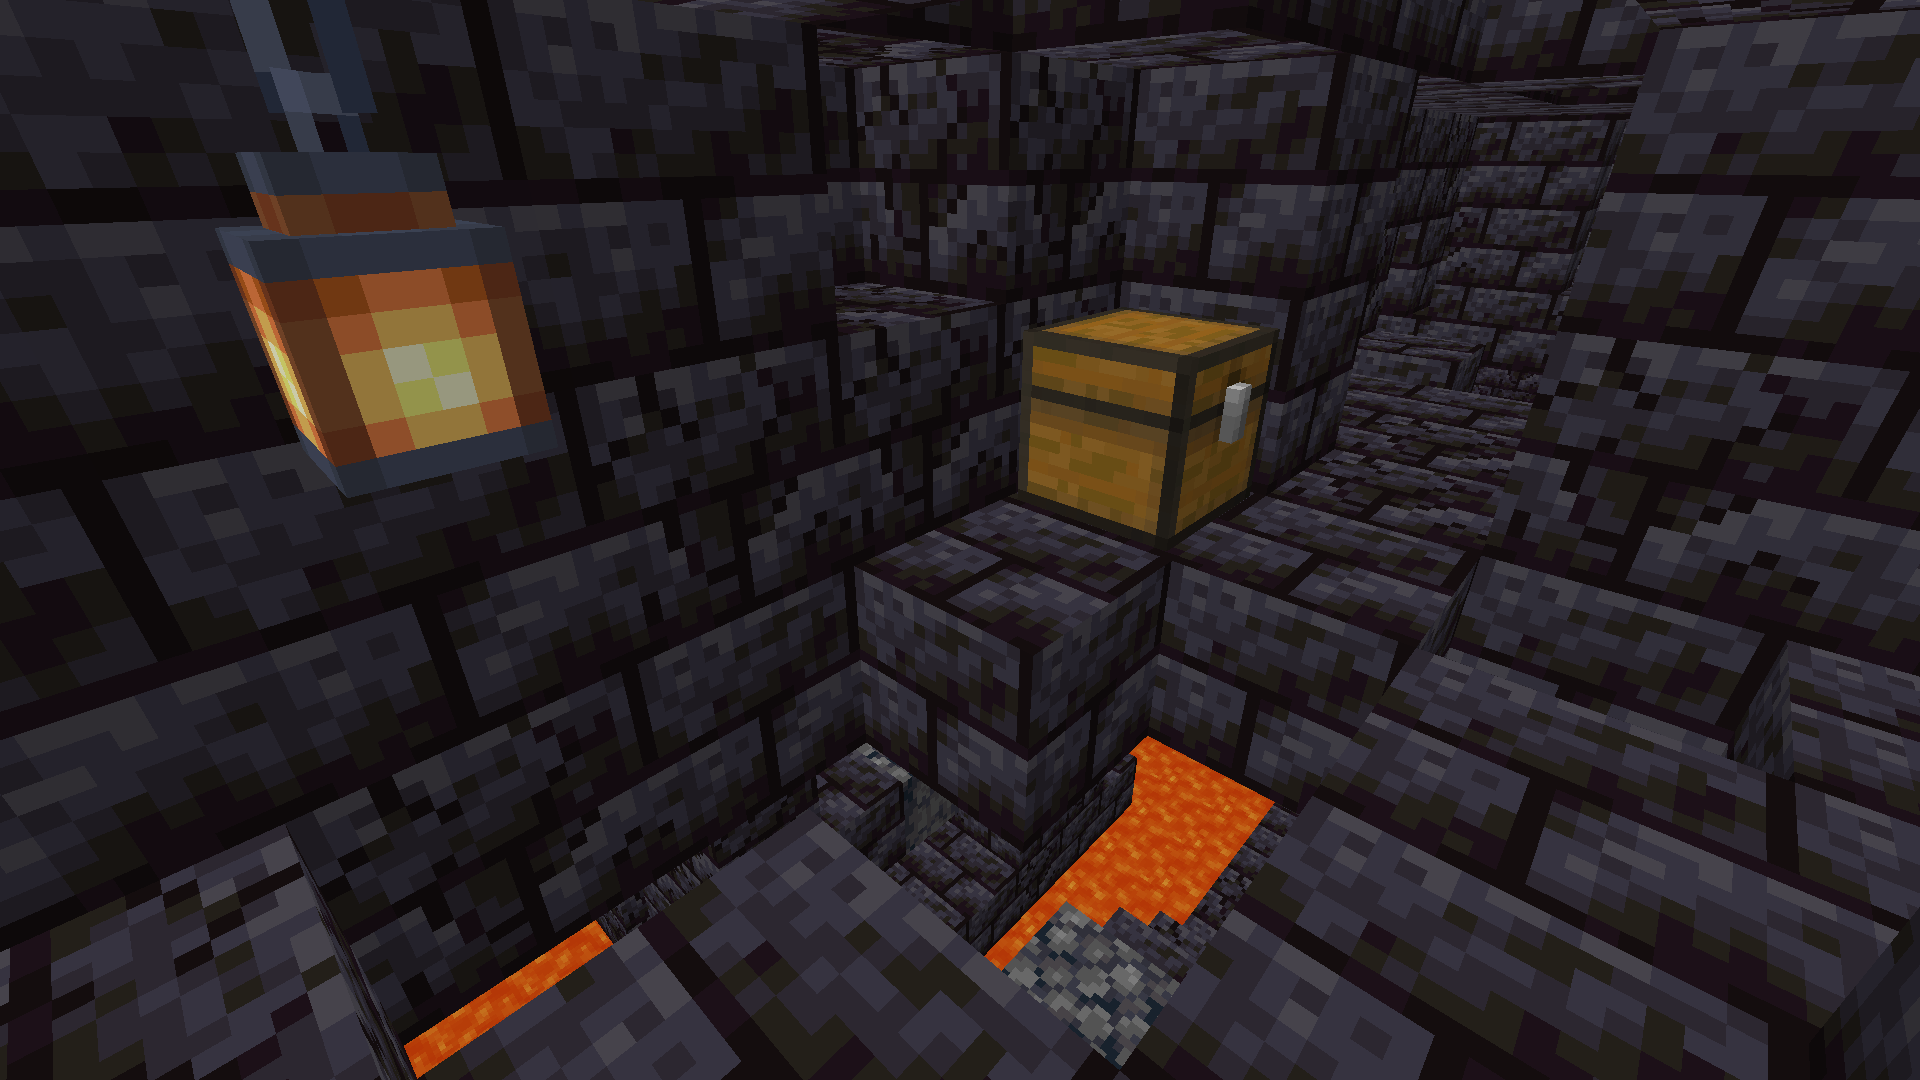
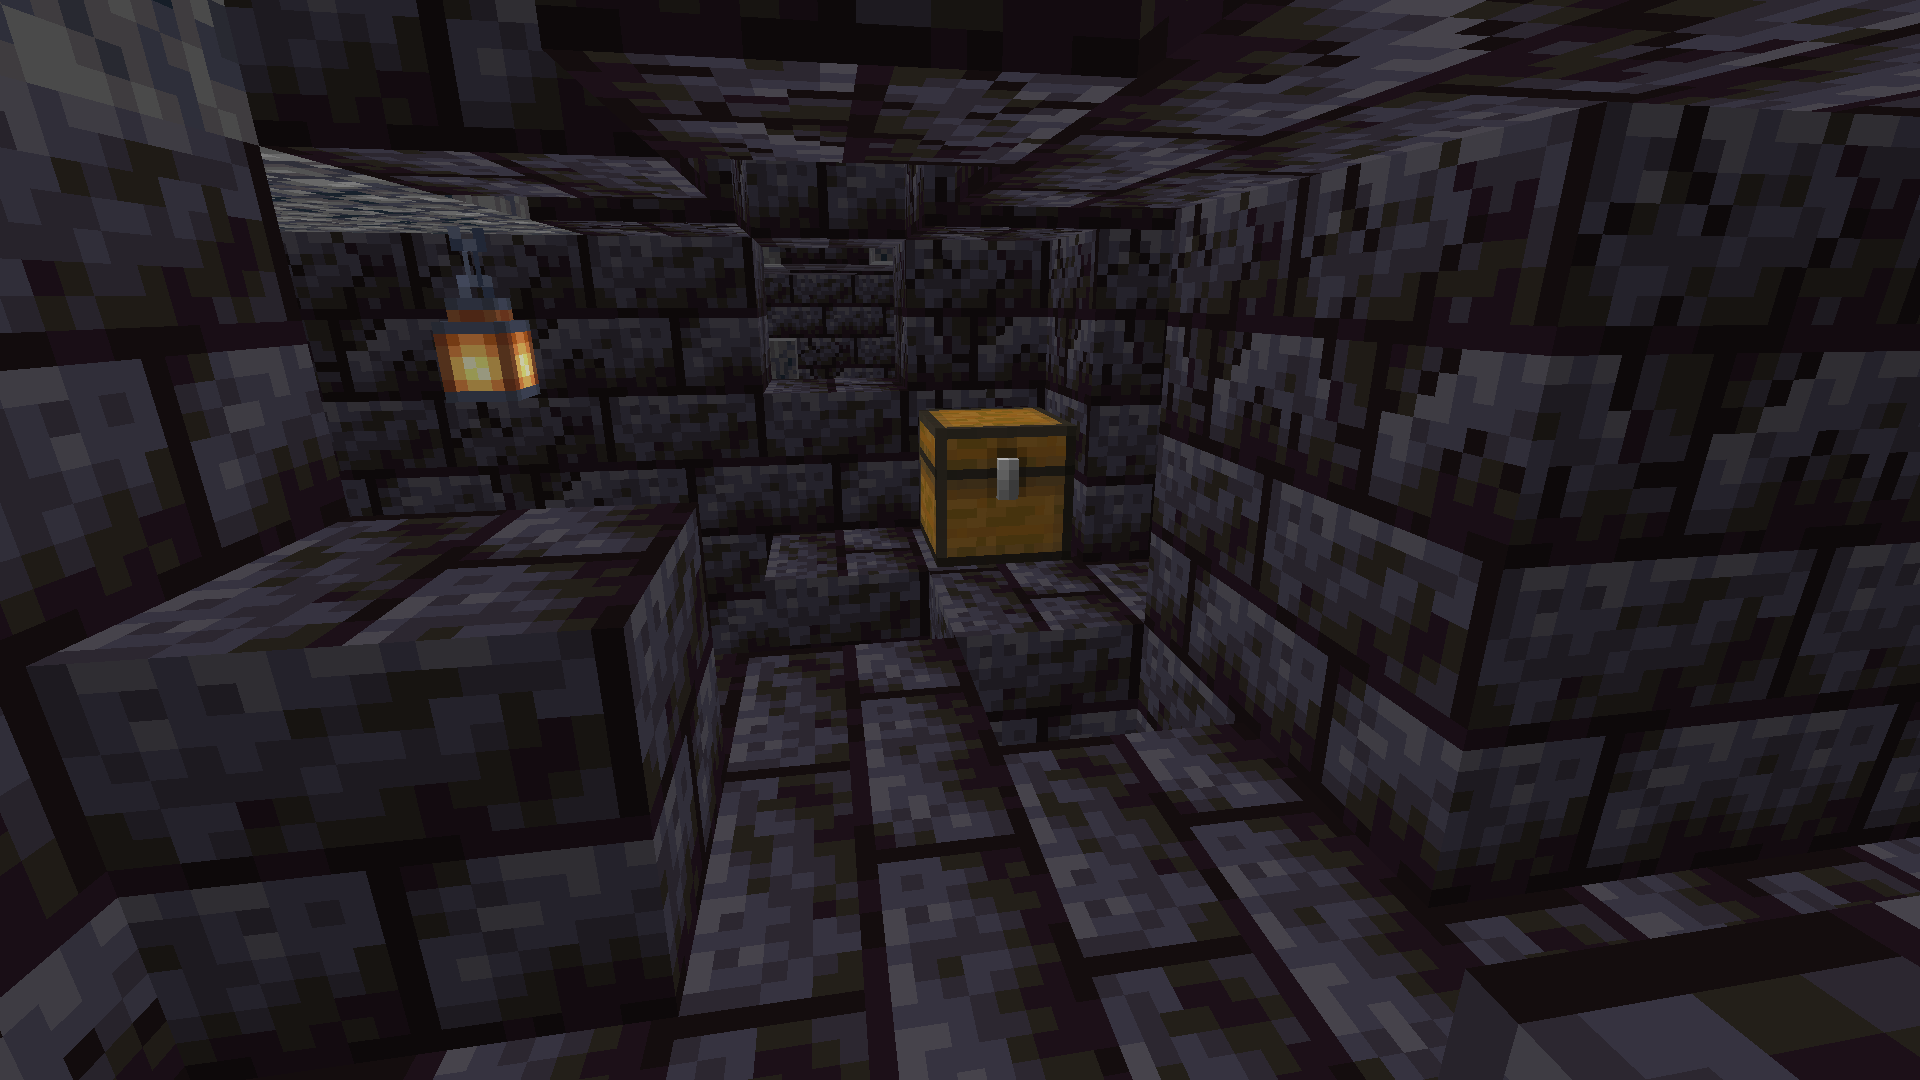
zoom mode + new images

diff --git a/index.html b/index.html
@@ -27,12 +27,13 @@
                 }
                 img 
                 {
-                    max-width: 75%;
-                    height: auto;
-                    display: block;
-                    margin-left: auto;
-                    margin-right: auto;
+                    width: 1000px;
                 }
+                .image-container 
+                {
+                    width: 1000px;
+                    overflow: hidden;
+                }            
             </style>
         </head>
         <body>
@@ -40,15 +41,24 @@
             <h1 style="font-family:verdana; font-size:300%;  color:white">BastionGuessr</h1>
             <p>its geoguessr but for bastions</p>
             <br>
-            <p>Difficulty:
-            <select id="dropdown" onchange="updateImage()">
+            
+            <p>
+            Difficulty:
+            <select id="diffdrop" onchange="updateImage()">
                 <option value="-1">Any</option>
                 <option value="0">Easy</option>
                 <option value="1">Medium</option>
                 <option value="2">Hard</option>
             </select>
+            &nbsp; &nbsp; &nbsp; Mode:
+            <select id="modedrop" onchange="updateImage()">
+                <option value="0">Normal</option>
+                <option value="1">Zoom</option>
+            </select>
             </p>
+            <div class="image-container">
             <img id="bastion" class="center">
+        </div>
             <p id="difficulty"></p>
 
             <button id="Treasure" onclick="checkAnswer(this, 'Treasure')"> Treasure </button>
@@ -59,12 +69,11 @@
             <p id="realanswer"></p>
             <button id="reset" onclick="reset()"> Reset </button>
             <p id="streak"></p>
-            <br><br><br><br><br><br><br><br><br>
+
             </center>
             <script>
                 const bastions = ["Treasure", "Housing", "Stables", "Bridge"];
                 const difficulties = ["Easy", "Medium", "Hard"];
-                const images = ["1.png", "2.png", "3.png", "4.png", "5.png", "6.png", "7.png"];
                 let answer;
                 let previous;
                 let path;
@@ -77,22 +86,31 @@
                 {
                     let bastionType = Math.floor(Math.random() * 4);
                     let difficulty;
-                    if (!(document.getElementById("dropdown").value == -1))
+                    if (!(document.getElementById("diffdrop").value == -1))
                     {
-                        difficulty = document.getElementById("dropdown").value;
+                        difficulty = document.getElementById("diffdrop").value;
                     }
                     else
                     {
                         difficulty = Math.floor(Math.random() * 3);
                     }
-                    let image = Math.floor(Math.random() * 7);
+                    let image = Math.ceil(Math.random() * 10);
 
-                    path = "screenshots/" + bastions[bastionType] + difficulties[difficulty] + "/" + images[image];
+                    path = "screenshots/" + bastions[bastionType] + difficulties[difficulty] + "/" + image + ".png";
 
                     answer = bastions[bastionType];
                     document.getElementById("bastion").src = path;
                     document.getElementById("difficulty").innerHTML = "Difficulty: " + difficulties[difficulty];
                     document.getElementById("streak").innerHTML = 'Streak: ' + streak;
+
+                    if (document.getElementById("modedrop").value == 1)
+                    {
+                        zoom(3);
+                    }
+                    else
+                    {
+                        zoom(1);
+                    }
                 }
                 
                 function checkAnswer(button, id)
@@ -101,6 +119,7 @@
                     {
                         document.getElementById("output").innerHTML = "CORRECT!!!";
                         document.getElementById("output").style.color = 'lawngreen';
+                        zoom(1);
                         if (guesses == 0)
                         {
                             streak = streak + 1;
@@ -123,8 +142,20 @@
                         document.getElementById("streak").innerHTML = 'Streak: ' + streak;
                         button.disabled = true;
                         guesses = guesses + 1;
+                        if (document.getElementById("modedrop").value == 1)
+                        {
+                            if (guesses == 1)
+                            {
+                                zoom(2.5)
+                            }
+                            else if (guesses == 2)
+                            {
+                                zoom(1.5)
+                            }
+                        }
                         if (guesses >= 3)
                         {
+                            zoom(1);
                             document.getElementById("realanswer").style.display = 'block';
                             document.getElementById("realanswer").innerHTML = "Answer was: " + answer;
                             document.getElementById("output").innerHTML = "";
@@ -149,6 +180,12 @@
                     document.getElementById("realanswer").style.display = 'none'
                     document.getElementById("output").innerHTML = "";
                     guesses = 0;
+                }
+
+                function zoom(scale) 
+                {
+                    img = document.getElementById("bastion")
+                    img.style.transform = `scale(${scale})`;
                 }
             </script>
         </body>
